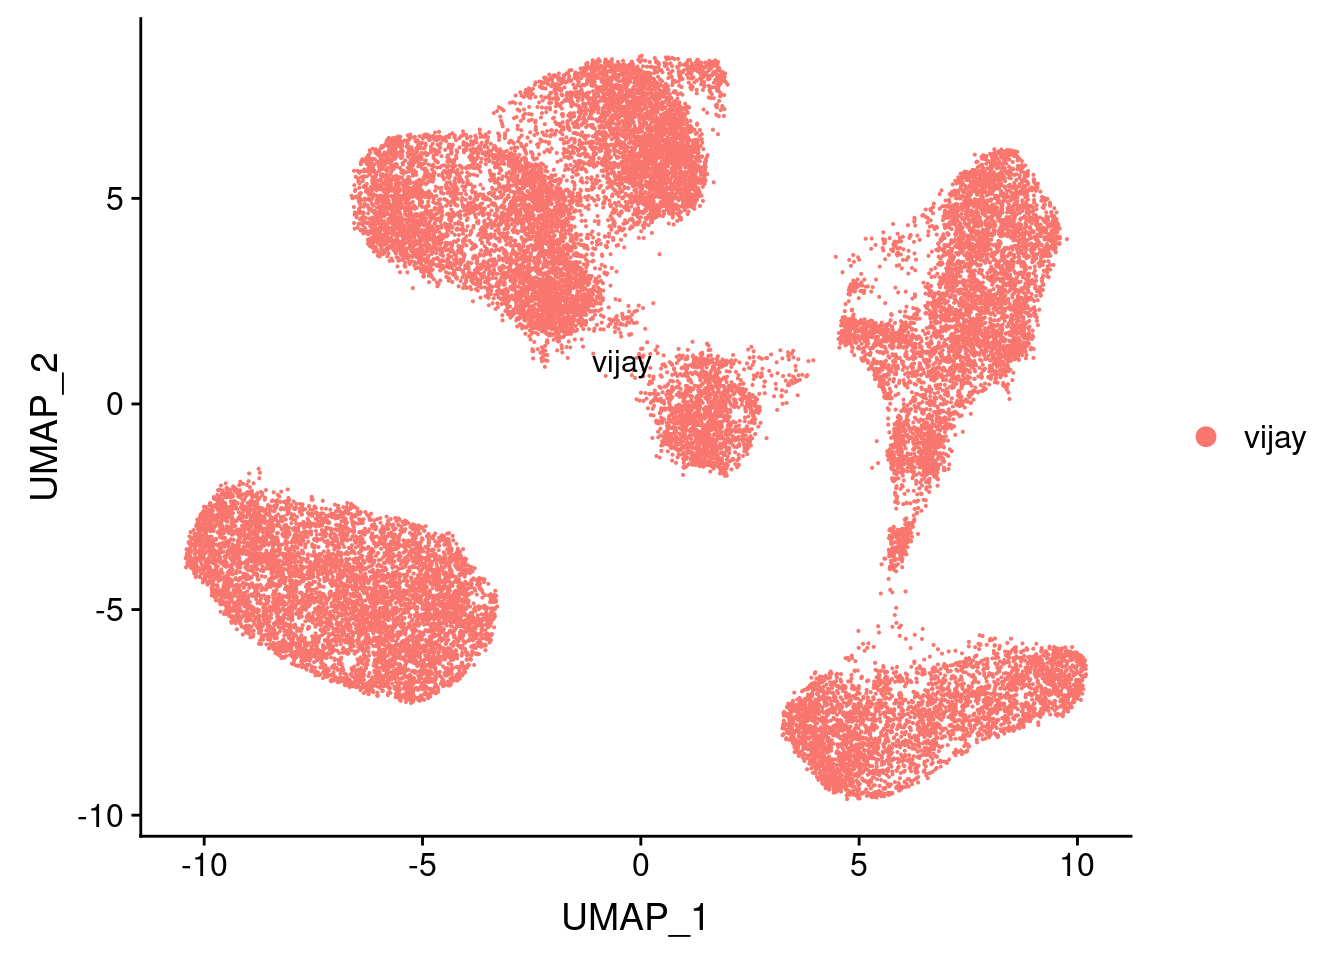
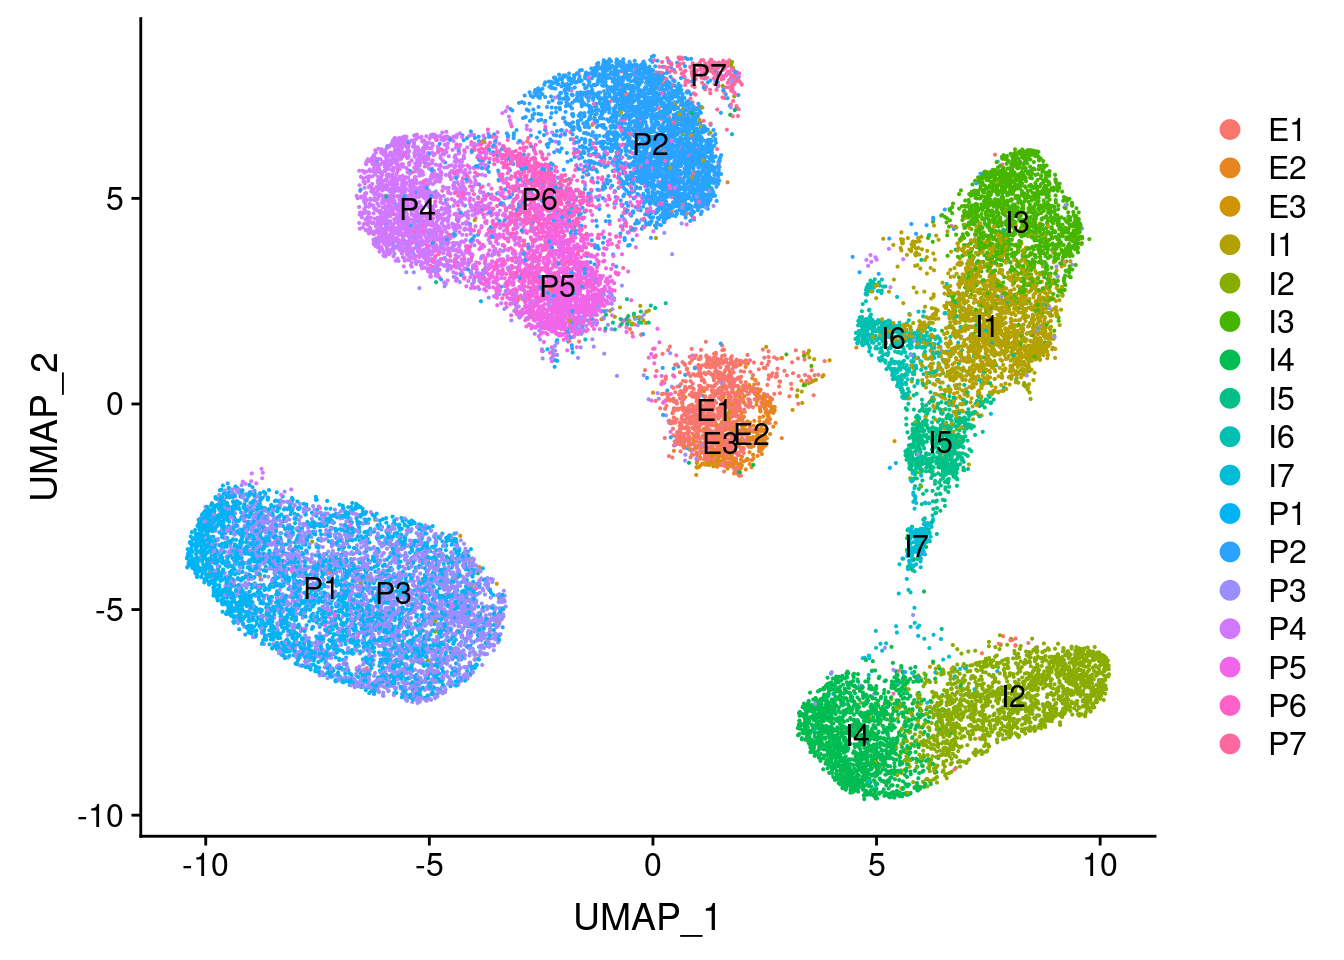
Build site.

diff --git a/docs/vijay_U-L-branch-markers.html b/docs/vijay_U-L-branch-markers.html
@@ -443,7 +443,7 @@ div.section {
 <div class="tab-content">
 <div id="summary" class="tab-pane fade in active">
 <p>
-<strong>Last updated:</strong> 2020-01-24
+<strong>Last updated:</strong> 2020-01-25
 </p>
 <p>
 <strong>Checks:</strong> <span class="glyphicon glyphicon-ok text-success" aria-hidden="true"></span> 6 <span class="glyphicon glyphicon-exclamation-sign text-danger" aria-hidden="true"></span> 0
@@ -522,10 +522,10 @@ This reproducible <a href="http://rmarkdown.rstudio.com">R Markdown</a> analysis
 <div class="panel panel-default">
 <div class="panel-heading">
 <p class="panel-title">
-<a data-toggle="collapse" data-parent="#workflowr-checks" href="#strongRepositoryversionstrongahrefhttpsgithubcompytrikfolkertsma10xadipocyteanalysistreec880351f825e4d693c877b26e7809ed5686c8443targetblankc880351a"> <span class="glyphicon glyphicon-ok text-success" aria-hidden="true"></span> <strong>Repository version:</strong> <a href="https://github.com/pytrikfolkertsma/10x-adipocyte-analysis/tree/c880351f825e4d693c877b26e7809ed5686c8443" target="_blank">c880351</a> </a>
+<a data-toggle="collapse" data-parent="#workflowr-checks" href="#strongRepositoryversionstrongahrefhttpsgithubcompytrikfolkertsma10xadipocyteanalysistreee8c3271cc381df01886a9ecd893aa23c0f7c9953targetblanke8c3271a"> <span class="glyphicon glyphicon-ok text-success" aria-hidden="true"></span> <strong>Repository version:</strong> <a href="https://github.com/pytrikfolkertsma/10x-adipocyte-analysis/tree/e8c3271cc381df01886a9ecd893aa23c0f7c9953" target="_blank">e8c3271</a> </a>
 </p>
 </div>
[2 lines of base64/hex data omitted]
 <div class="panel-body">
 <p>
 Great! You are using Git for version control. Tracking code development and connecting the code version to the results is critical for reproducibility. The version displayed above was the version of the Git repository at the time these results were generated. <br><br> Note that you need to be careful to ensure that all relevant files for the analysis have been committed to Git prior to generating the results (you can use <code>wflow_publish</code> or <code>wflow_git_commit</code>). workflowr only checks the R Markdown file, but you know if there are other scripts or data files that it depends on. Below is the status of the Git repository when the results were generated:
@@ -549,6 +549,7 @@ Untracked files:
     Untracked:  10x-adipocyte-analysis-copy.Rproj
     Untracked:  analysis/.ipynb_checkpoints/10x-180831_harmony_palantir-checkpoint.ipynb
     Untracked:  analysis/.ipynb_checkpoints/velocyto_notebook_180831-checkpoint.ipynb
+    Untracked:  analysis/figure/
     Untracked:  code/BEAM-heatmaps.R
     Untracked:  code/BEAM_gsea.R
     Untracked:  code/__pycache__/
@@ -610,6 +611,40 @@ Message
 </tr>
 </thead>
 <tbody>
+<tr>
+<td>
+Rmd
+</td>
+<td>
+<a href="https://github.com/pytrikfolkertsma/10x-adipocyte-analysis/blob/e8c3271cc381df01886a9ecd893aa23c0f7c9953/analysis/vijay_U-L-branch-markers.Rmd" target="_blank">e8c3271</a>
+</td>
+<td>
+Pytrik Folkertsma
+</td>
+<td>
+2020-01-25
+</td>
+<td>
+wflow_publish(c(“analysis/vijay_U-L-branch-markers.Rmd”))
+</td>
+</tr>
+<tr>
+<td>
+html
+</td>
+<td>
+<a href="https://rawcdn.githack.com/pytrikfolkertsma/10x-adipocyte-analysis/225ae0cfbd73e54c4d8ad4b4638edd4a25f8ba72/docs/vijay_U-L-branch-markers.html" target="_blank">225ae0c</a>
+</td>
+<td>
+Pytrik Folkertsma
+</td>
+<td>
+2020-01-24
+</td>
+<td>
+Build site.
+</td>
+</tr>
 <tr>
 <td>
 Rmd
@@ -739,8 +774,7 @@ markers &lt;- read.table(&#39;/projects/pytrik/sc_adipose/analyze_10x_fluidigm/1
 markers_u &lt;- markers_u[order(-markers_u$avg_logFC),]</code></pre>
 <p>Top 56 markers for U branch sorted on logFC.</p>
 <pre class="r"><code>grids &lt;- plot_featureplots(vijay, markergenes=markers_u, dir=&#39;/projects/pytrik/sc_adipose/analyze_10x_fluidigm/10x-adipocyte-analysis/figures/figures_paper/supplementary_figures/vijay/u_l_branch_markers/all_data/&#39;, branch=&#39;U_branch&#39;)</code></pre>
-<pre class="r"><code>UMAPPlot(vijay, features=&#39;celltype&#39;, label=T)</code></pre>
-<pre><code>The following functions and any applicable methods accept the dots: CombinePlots</code></pre>
+<pre class="r"><code>UMAPPlot(vijay, group.by=&#39;celltype&#39;, label=T)</code></pre>
 <p><img src="figure/vijay_U-L-branch-markers.Rmd/unnamed-chunk-6-1.png" width="672" style="display: block; margin: auto;" /></p>
 <p>
 <button type="button" class="btn btn-default btn-xs btn-workflowr btn-workflowr-fig" data-toggle="collapse" data-target="#fig-unnamed-chunk-6-1">
@@ -764,6 +798,17 @@ Date
 </tr>
 </thead>
 <tbody>
+<tr>
+<td>
+<a href="https://github.com/pytrikfolkertsma/10x-adipocyte-analysis/blob/225ae0cfbd73e54c4d8ad4b4638edd4a25f8ba72/docs/figure/vijay_U-L-branch-markers.Rmd/unnamed-chunk-6-1.png" target="_blank">225ae0c</a>
+</td>
+<td>
+Pytrik Folkertsma
+</td>
+<td>
+2020-01-24
+</td>
+</tr>
 <tr>
 <td>
 <a href="https://github.com/pytrikfolkertsma/10x-adipocyte-analysis/blob/f3a9239b5fb2321808d454234cd2d0fe50f2f31c/docs/figure/vijay_U-L-branch-markers.Rmd/unnamed-chunk-6-1.png" target="_blank">f3a9239</a>
@@ -816,6 +861,17 @@ Date
 <tbody>
 <tr>
 <td>
+<a href="https://github.com/pytrikfolkertsma/10x-adipocyte-analysis/blob/225ae0cfbd73e54c4d8ad4b4638edd4a25f8ba72/docs/figure/vijay_U-L-branch-markers.Rmd/unnamed-chunk-7-1.png" target="_blank">225ae0c</a>
+</td>
+<td>
+Pytrik Folkertsma
+</td>
+<td>
+2020-01-24
+</td>
+</tr>
+<tr>
+<td>
 <a href="https://github.com/pytrikfolkertsma/10x-adipocyte-analysis/blob/f3a9239b5fb2321808d454234cd2d0fe50f2f31c/docs/figure/vijay_U-L-branch-markers.Rmd/unnamed-chunk-7-1.png" target="_blank">f3a9239</a>
 </td>
 <td>
@@ -866,6 +922,17 @@ Date
 <tbody>
 <tr>
 <td>
+<a href="https://github.com/pytrikfolkertsma/10x-adipocyte-analysis/blob/225ae0cfbd73e54c4d8ad4b4638edd4a25f8ba72/docs/figure/vijay_U-L-branch-markers.Rmd/unnamed-chunk-8-1.png" target="_blank">225ae0c</a>
+</td>
+<td>
+Pytrik Folkertsma
+</td>
+<td>
+2020-01-24
+</td>
+</tr>
+<tr>
+<td>
 <a href="https://github.com/pytrikfolkertsma/10x-adipocyte-analysis/blob/f3a9239b5fb2321808d454234cd2d0fe50f2f31c/docs/figure/vijay_U-L-branch-markers.Rmd/unnamed-chunk-8-1.png" target="_blank">f3a9239</a>
 </td>
 <td>
@@ -886,8 +953,7 @@ markers_l &lt;- markers_l[order(markers_l$avg_logFC),]</code></pre>
 <pre class="r"><code>grids &lt;- plot_featureplots(vijay, markergenes=markers_l, dir=&#39;/projects/pytrik/sc_adipose/analyze_10x_fluidigm/10x-adipocyte-analysis/figures/figures_paper/supplementary_figures/vijay/u_l_branch_markers/all_data&#39;, branch=&#39;L_branch&#39;)</code></pre>
 <pre><code>Warning in FetchData(object = object, vars = c(dims, &quot;ident&quot;, features), :
 The following requested variables were not found: RP11-572C15.6, PPAP2B</code></pre>
-<pre class="r"><code>UMAPPlot(vijay, features=&#39;celltype&#39;, label=T)</code></pre>
-<pre><code>The following functions and any applicable methods accept the dots: CombinePlots</code></pre>
+<pre class="r"><code>UMAPPlot(vijay, group.by=&#39;celltype&#39;, label=T)</code></pre>
 <p><img src="figure/vijay_U-L-branch-markers.Rmd/unnamed-chunk-11-1.png" width="672" style="display: block; margin: auto;" /></p>
 <p>
 <button type="button" class="btn btn-default btn-xs btn-workflowr btn-workflowr-fig" data-toggle="collapse" data-target="#fig-unnamed-chunk-11-1">
@@ -911,6 +977,17 @@ Date
 </tr>
 </thead>
 <tbody>
+<tr>
+<td>
+<a href="https://github.com/pytrikfolkertsma/10x-adipocyte-analysis/blob/225ae0cfbd73e54c4d8ad4b4638edd4a25f8ba72/docs/figure/vijay_U-L-branch-markers.Rmd/unnamed-chunk-11-1.png" target="_blank">225ae0c</a>
+</td>
+<td>
+Pytrik Folkertsma
+</td>
+<td>
+2020-01-24
+</td>
+</tr>
 <tr>
 <td>
 <a href="https://github.com/pytrikfolkertsma/10x-adipocyte-analysis/blob/f3a9239b5fb2321808d454234cd2d0fe50f2f31c/docs/figure/vijay_U-L-branch-markers.Rmd/unnamed-chunk-11-1.png" target="_blank">f3a9239</a>
@@ -963,6 +1040,17 @@ Date
 <tbody>
 <tr>
 <td>
+<a href="https://github.com/pytrikfolkertsma/10x-adipocyte-analysis/blob/225ae0cfbd73e54c4d8ad4b4638edd4a25f8ba72/docs/figure/vijay_U-L-branch-markers.Rmd/unnamed-chunk-12-1.png" target="_blank">225ae0c</a>
+</td>
+<td>
+Pytrik Folkertsma
+</td>
+<td>
+2020-01-24
+</td>
+</tr>
+<tr>
+<td>
 <a href="https://github.com/pytrikfolkertsma/10x-adipocyte-analysis/blob/f3a9239b5fb2321808d454234cd2d0fe50f2f31c/docs/figure/vijay_U-L-branch-markers.Rmd/unnamed-chunk-12-1.png" target="_blank">f3a9239</a>
 </td>
 <td>
@@ -1000,6 +1088,17 @@ Date
 </tr>
 </thead>
 <tbody>
+<tr>
+<td>
+<a href="https://github.com/pytrikfolkertsma/10x-adipocyte-analysis/blob/225ae0cfbd73e54c4d8ad4b4638edd4a25f8ba72/docs/figure/vijay_U-L-branch-markers.Rmd/unnamed-chunk-13-1.png" target="_blank">225ae0c</a>
+</td>
+<td>
+Pytrik Folkertsma
+</td>
+<td>
+2020-01-24
+</td>
+</tr>
 <tr>
 <td>
 <a href="https://github.com/pytrikfolkertsma/10x-adipocyte-analysis/blob/f3a9239b5fb2321808d454234cd2d0fe50f2f31c/docs/figure/vijay_U-L-branch-markers.Rmd/unnamed-chunk-13-1.png" target="_blank">f3a9239</a>
